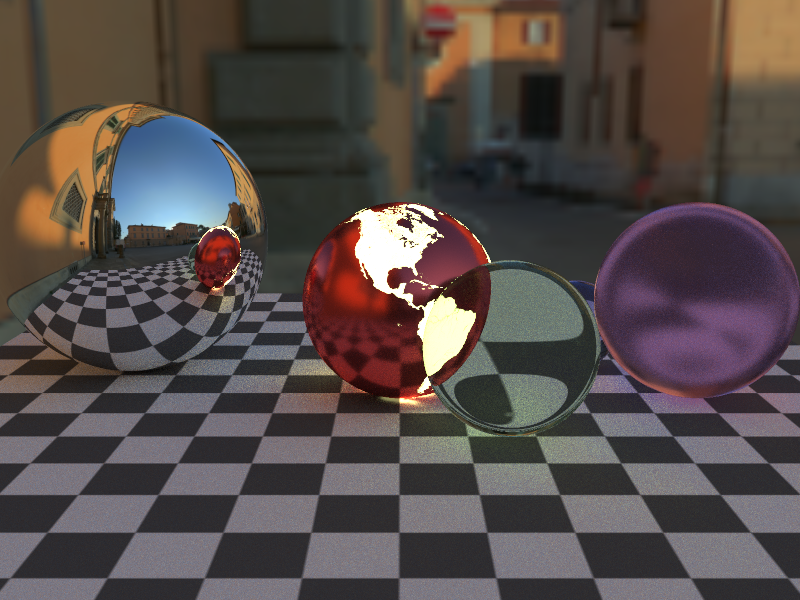
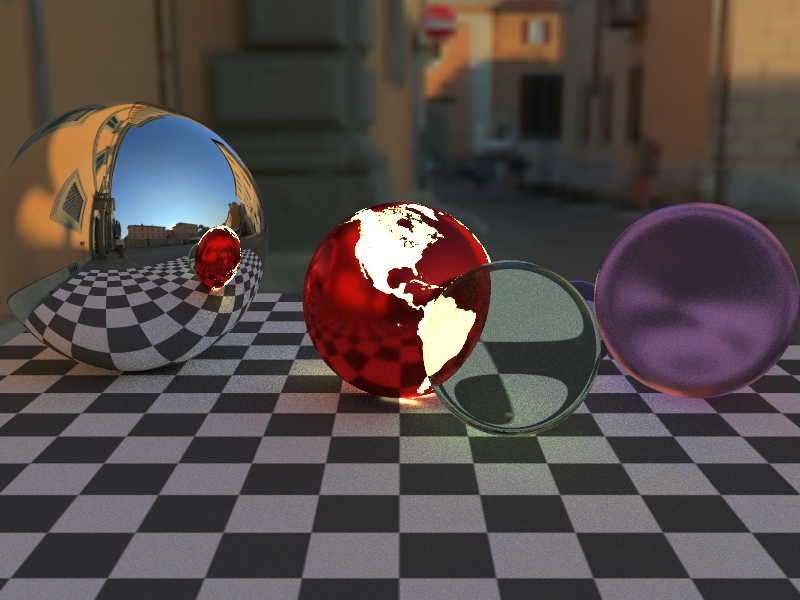
impl MulAssign for Vector3 and Use albedo as f_schlick f0 (total 7.542 sec.)

diff --git a/src/renderer.rs b/src/renderer.rs
@@ -87,13 +87,13 @@ impl Renderer for DebugRenderer {
                     SurfaceType::Specular => {
                         ray.origin = intersection.position + intersection.normal * consts::OFFSET;
                         ray.direction = ray.direction.reflect(&intersection.normal);
-                        reflection = reflection * intersection.material.albedo;
+                        reflection *= intersection.material.albedo;
                     },
                     // 鏡面以外は拡散面として処理する
                     _ => {
                         let diffuse = intersection.normal.dot(&light_direction).max(0.0);
                         let color = intersection.material.emission + intersection.material.albedo * diffuse * shadow;
-                        reflection = reflection * color;
+                        reflection += color;
                         accumulation += reflection;
                         break;
                     },
@@ -153,9 +153,10 @@ impl Renderer for PathTracingRenderer {
                                 let h_dot_n = saturate(half.dot(&intersection.normal));
 
                                 let g = brdf::g_smith_joint(l_dot_n, v_dot_n, alpha2);
-                                let f = brdf::f_schlick(v_dot_h, 0.95);
+                                // albedoをフレネル反射率のパラメータのF0として扱う
+                                let f = brdf::f_schlick(v_dot_h, &intersection.material.albedo);
                                 let weight = g * f * v_dot_h / (h_dot_n * v_dot_n);
-                                intersection.material.albedo = intersection.material.albedo * weight;
+                                intersection.material.albedo *= weight;
                             }
 
                             ray.origin = intersection.position + intersection.normal * consts::OFFSET;
@@ -170,7 +171,7 @@ impl Renderer for PathTracingRenderer {
                 }
 
                 accumulation += reflection * intersection.material.emission;
-                reflection = reflection * intersection.material.albedo;
+                reflection *= intersection.material.albedo;
 
                 if !hit { break; }
             }

diff --git a/src/brdf.rs b/src/brdf.rs
@@ -1,6 +1,7 @@
 use consts;
 use vector::Vector3;
 use scene::{Intersection, Ray};
+use color::Color;
 
 // 法線を基準とした空間の基底ベクトルを計算
 fn get_tangent_space_basis(normal: &Vector3) -> (Vector3, Vector3) {
@@ -69,8 +70,16 @@ pub fn g_smith_joint(l_dot_n :f64, v_dot_n: f64, alpha2: f64) -> f64 {
     (1.0 + lambda_l + lambda_v).recip()
 }
 
-pub fn f_schlick(v_dot_h: f64, f0: f64) -> f64 {
+fn f_schlick_f64(v_dot_h: f64, f0: f64) -> f64 {
     f0 + (1.0 - f0) * (1.0 - v_dot_h).powi(5)
+}
+
+pub fn f_schlick(v_dot_h: f64, f0: &Color) -> Color {
+    Color::new(
+        f_schlick_f64(v_dot_h,f0.x),
+        f_schlick_f64(v_dot_h,f0.y),
+        f_schlick_f64(v_dot_h,f0.z),
+    )
 }
 
 pub fn sample_refraction(random: (f64, f64), normal: &Vector3, refractive_index: f64, intersection: &Intersection, ray: &mut Ray) {

diff --git a/src/vector.rs b/src/vector.rs
@@ -1,4 +1,4 @@
-use std::ops::{Add, Sub, Mul, Div, Neg, AddAssign};
+use std::ops::{Add, Sub, Mul, Div, Neg, AddAssign, MulAssign};
 use std::cmp::PartialEq;
 
 #[derive(Copy, Clone, Debug)]
@@ -196,6 +196,14 @@ impl AddAssign for Vector3 {
         self.x += other.x;
         self.y += other.y;
         self.z += other.z;
+    }
+}
+
+impl MulAssign for Vector3 {
+    fn mul_assign(&mut self, other: Vector3) {
+        self.x *= other.x;
+        self.y *= other.y;
+        self.z *= other.z;
     }
 }
 
